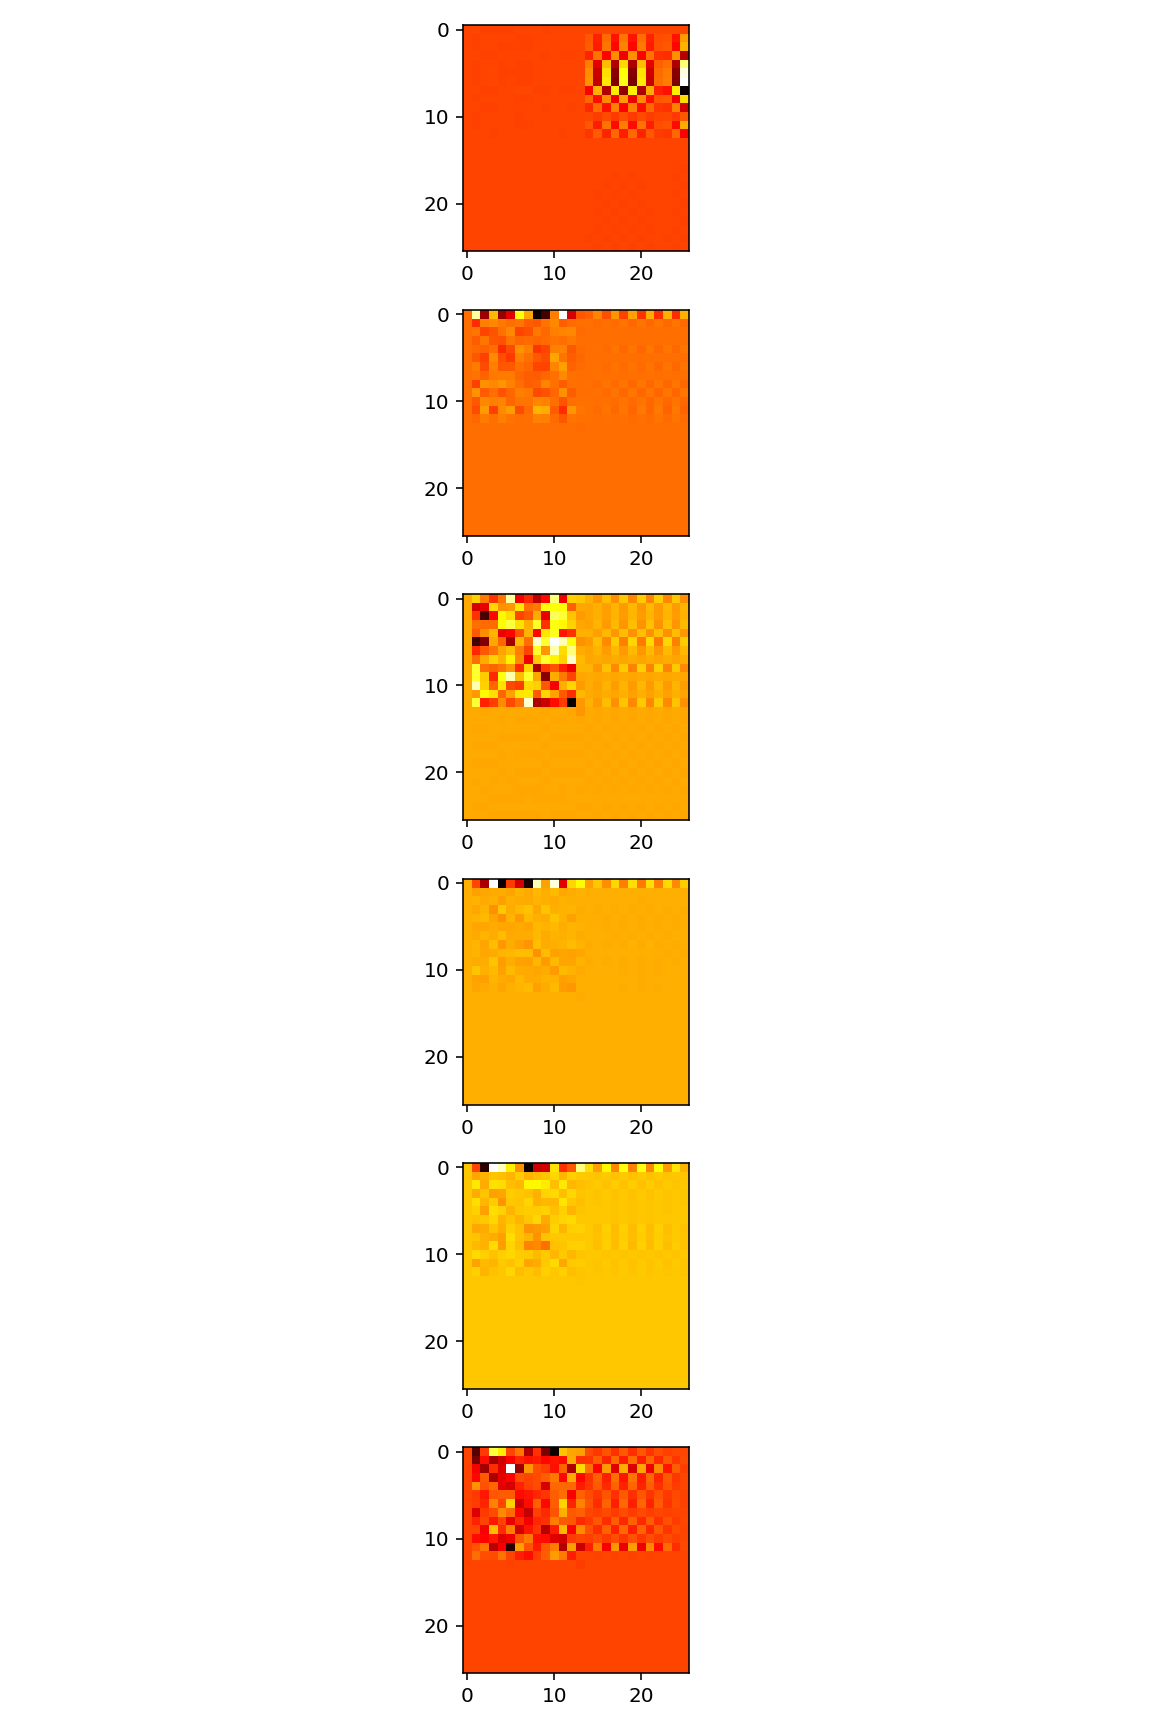
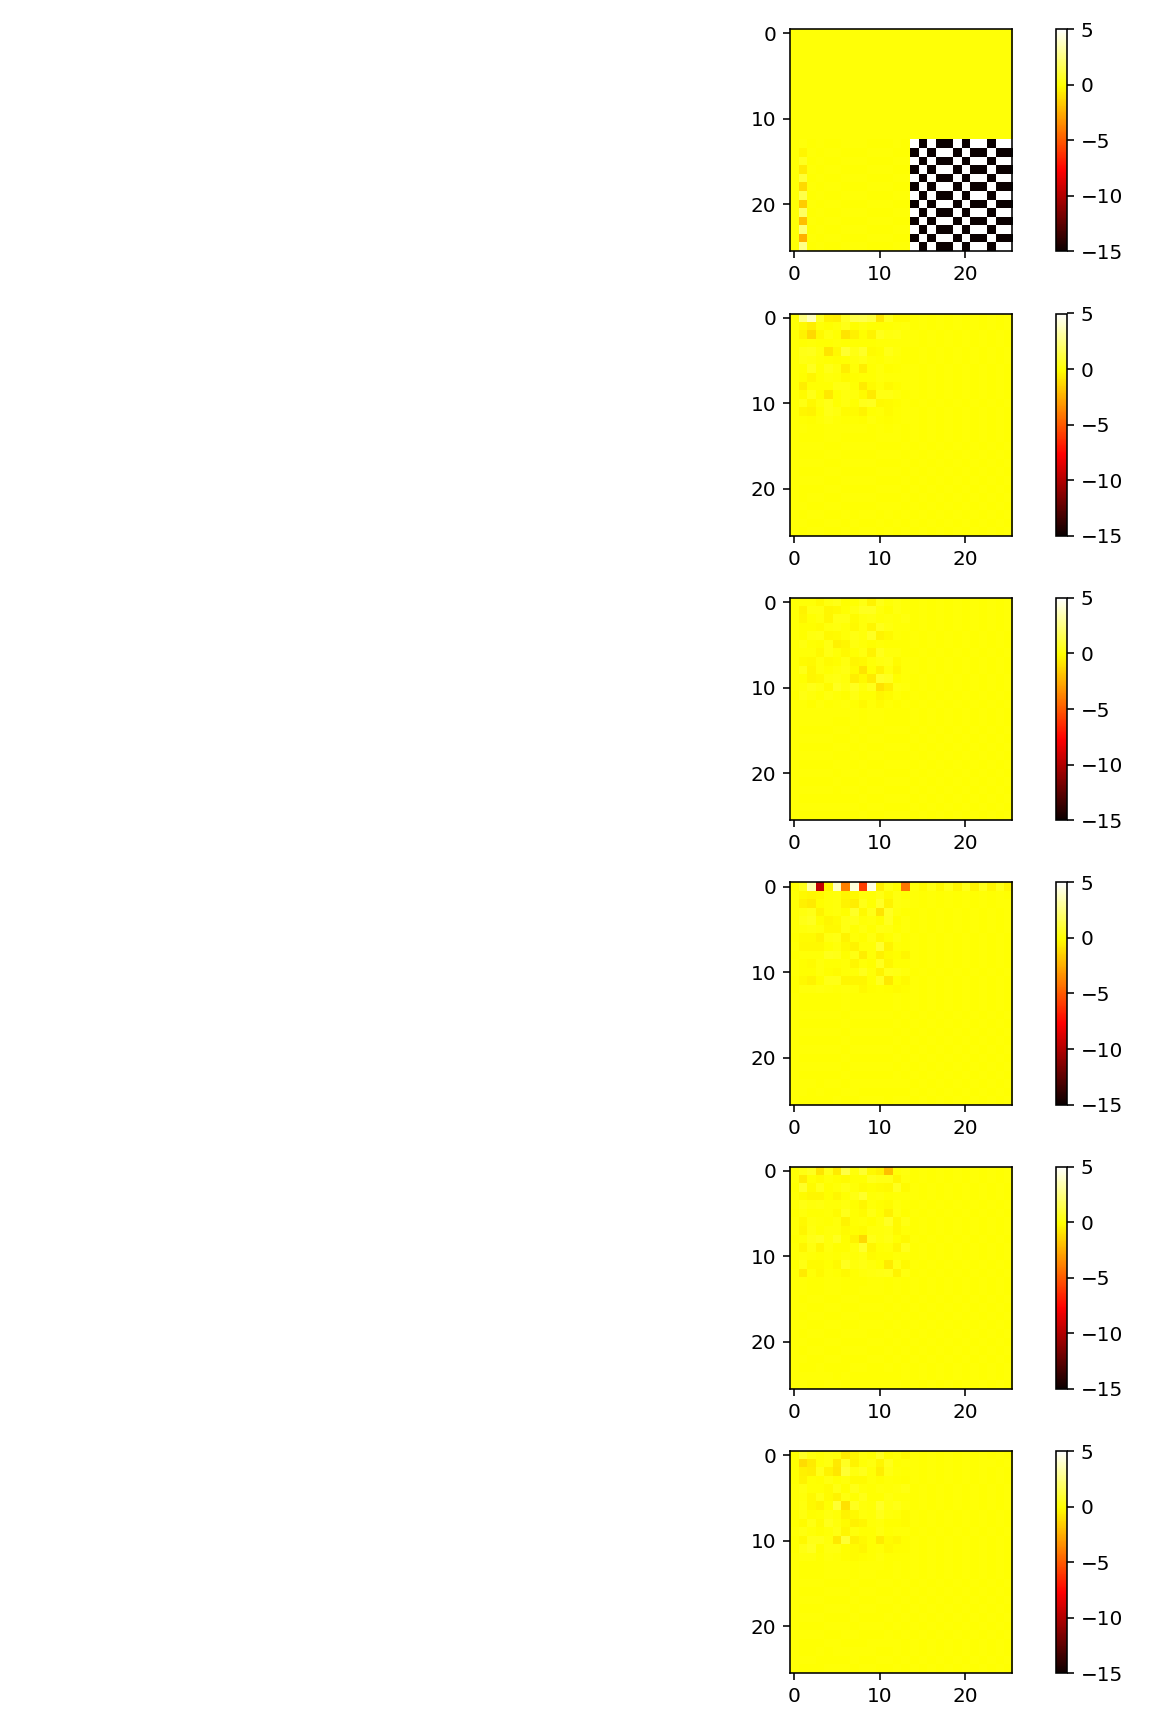
currently functional integrater

diff --git a/bte_1d_fluxlearn.py b/bte_1d_fluxlearn.py
@@ -132,12 +132,12 @@ fig, axs = plt.subplots(nA,nM,figsize=(nM,2*nA))
 Gt = []
 lAc = []
 print(len(GN))
-cmp=5 #fidelity or compression again, up to npts
+cmp=3 #fidelity or compression again, up to npts
 #for i in range(0,len(G)-11,1):
 strt = 1 #where in the total pickle file should the imaging start, beginning, middle, end?
-major_stride = 10 #major is how many timepoints to skip for each axis for imaging
-minor_stride = 2 #minor is how many timepoints between each column of the X0,X1 observations
-npts = 8 #how many observations to include in each SVD
+major_stride = 12 #major is how many timepoints to skip for each axis for imaging
+minor_stride = 1 #minor is how many timepoints between each column of the X0,X1 observations
+npts = 6 #how many observations to include in each SVD
 for i,ax in enumerate(axs):
     #Gt.append(G[i:11+i]) #each element contains a block slice of GN
     #The 2x first order version uses priors N0 and F0 to predict posterior Y, e.g. dN,dF
@@ -180,6 +180,7 @@ for i,ax in enumerate(axs):
     for axi,M in zip(ax,[u[:,0:cmp],np.diag(s[0:cmp]),v[0:cmp,:],Ac,A,Lam,Xi.real,Xi.imag][:nM]):
         im = axi.imshow(M, cmap='hot', vmin=-1,vmax=1,
            origin='upper', interpolation='nearest', aspect='equal')
+        fig.colorbar(im, ax=axi, fraction=0.046, pad=0.04)
 #fig.colorbar(im, ax=ax, fraction=0.046, pad=0.04)
 plt.savefig('bte_2x1stOrd_transforms1.png')
 
@@ -188,8 +189,9 @@ fig, axs = plt.subplots(nA,1,figsize=(8,12))
 
 print(len(lAc))
 for ax,i in zip(axs, list(range(0,nA))):#len(lAc),100))[:9]):
-    im = ax.imshow(lAc[i], cmap='hot', #vmin=-50,vmax=50,
+    im = ax.imshow(lAc[i], cmap='hot', vmin=-15,vmax=5,
            origin='upper', interpolation='nearest', aspect='equal')
+    fig.colorbar(im, ax=ax, fraction=0.046, pad=0.04)
 plt.tight_layout()
 plt.savefig('bte_2x1stOrd_matrix_heatmaps1.png')
 plt.show()
@@ -234,7 +236,9 @@ Nstart=npop[0].T[100:1848] #population profile from the start
 Fstart=flux[0].T[100:1848] #flux profile from the start
 n0=decompose_field(x[100:1848],Nstart*1e-9) #Decompose the inside layer only, scale the temperature to natural units
 f0=decompose_field(x[100:1848],Fstart*1e-9) #Decompose the inside layer only, scale the temperature to natural units
+print(n0.shape,f0.shape)
 c0=np.concatenate((n0,f0),axis=0)
+print(c0.shape)
 nflux=np.concatenate((npop,flux),axis=0)
 Nn = n0.shape[0]
 #print(c0)
@@ -265,7 +269,7 @@ t_0 = 0.
 colormap = plt.get_cmap('tab10', nepoch)
 colors = [colormap(k) for k in range(nepoch)] #when plotting exact vs approx curves, each epoch has own color from cmap
 for t, Cs, col in zip(ts[time_slice],nflux[time_slice],colors):#[0:1]: 10 elements to loop, epochs
-    Navg = np.dot(H.T,decompose_field(x[100:1848],Cs[Nn,:].T[100:1848]*1e-9)) #Ts is the BTE solution and this operation with H measures the average T at the epoch start
+    Navg = np.dot(H.T,decompose_field(x[100:1848],Cs[:Nn].T[100:1848]*1e-9)) #Ts is the BTE solution and this operation with H measures the average T at the epoch start
     while lTimes[i]<t: #lTimes was recorded during formation of the propagators, this is the within-epoch integration loop that runs until the time value of the propagator reaches t, the epoch end
         '''if i<7: #debugging
             print(lAc[i])
@@ -298,8 +302,8 @@ for t, Cs, col in zip(ts[time_slice],nflux[time_slice],colors):#[0:1]: 10 elemen
         #print(c)
         i+=1
     #print(i)
-    plt.plot(x[100:1848] * 1e6,interp_temp(scale(x[100:1848]),c1[Nn,:]),color=col)
-    plt.plot(x[100:1848] * 1e6,Cs[Nn,:].T[100:1848]*1e-9,'o',color=col,markevery=100)
+    plt.plot(x[100:1848] * 1e6,interp_temp(scale(x[100:1848]),c1[:Nn]),color=col)
+    plt.plot(x[100:1848] * 1e6,Cs[:Nn].T[100:1848]*1e-9,'o',color=col,markevery=100)
     Navg_0 = Navg #Also part of an in-process corrector mechanism.
     t_0 = t
     #break
